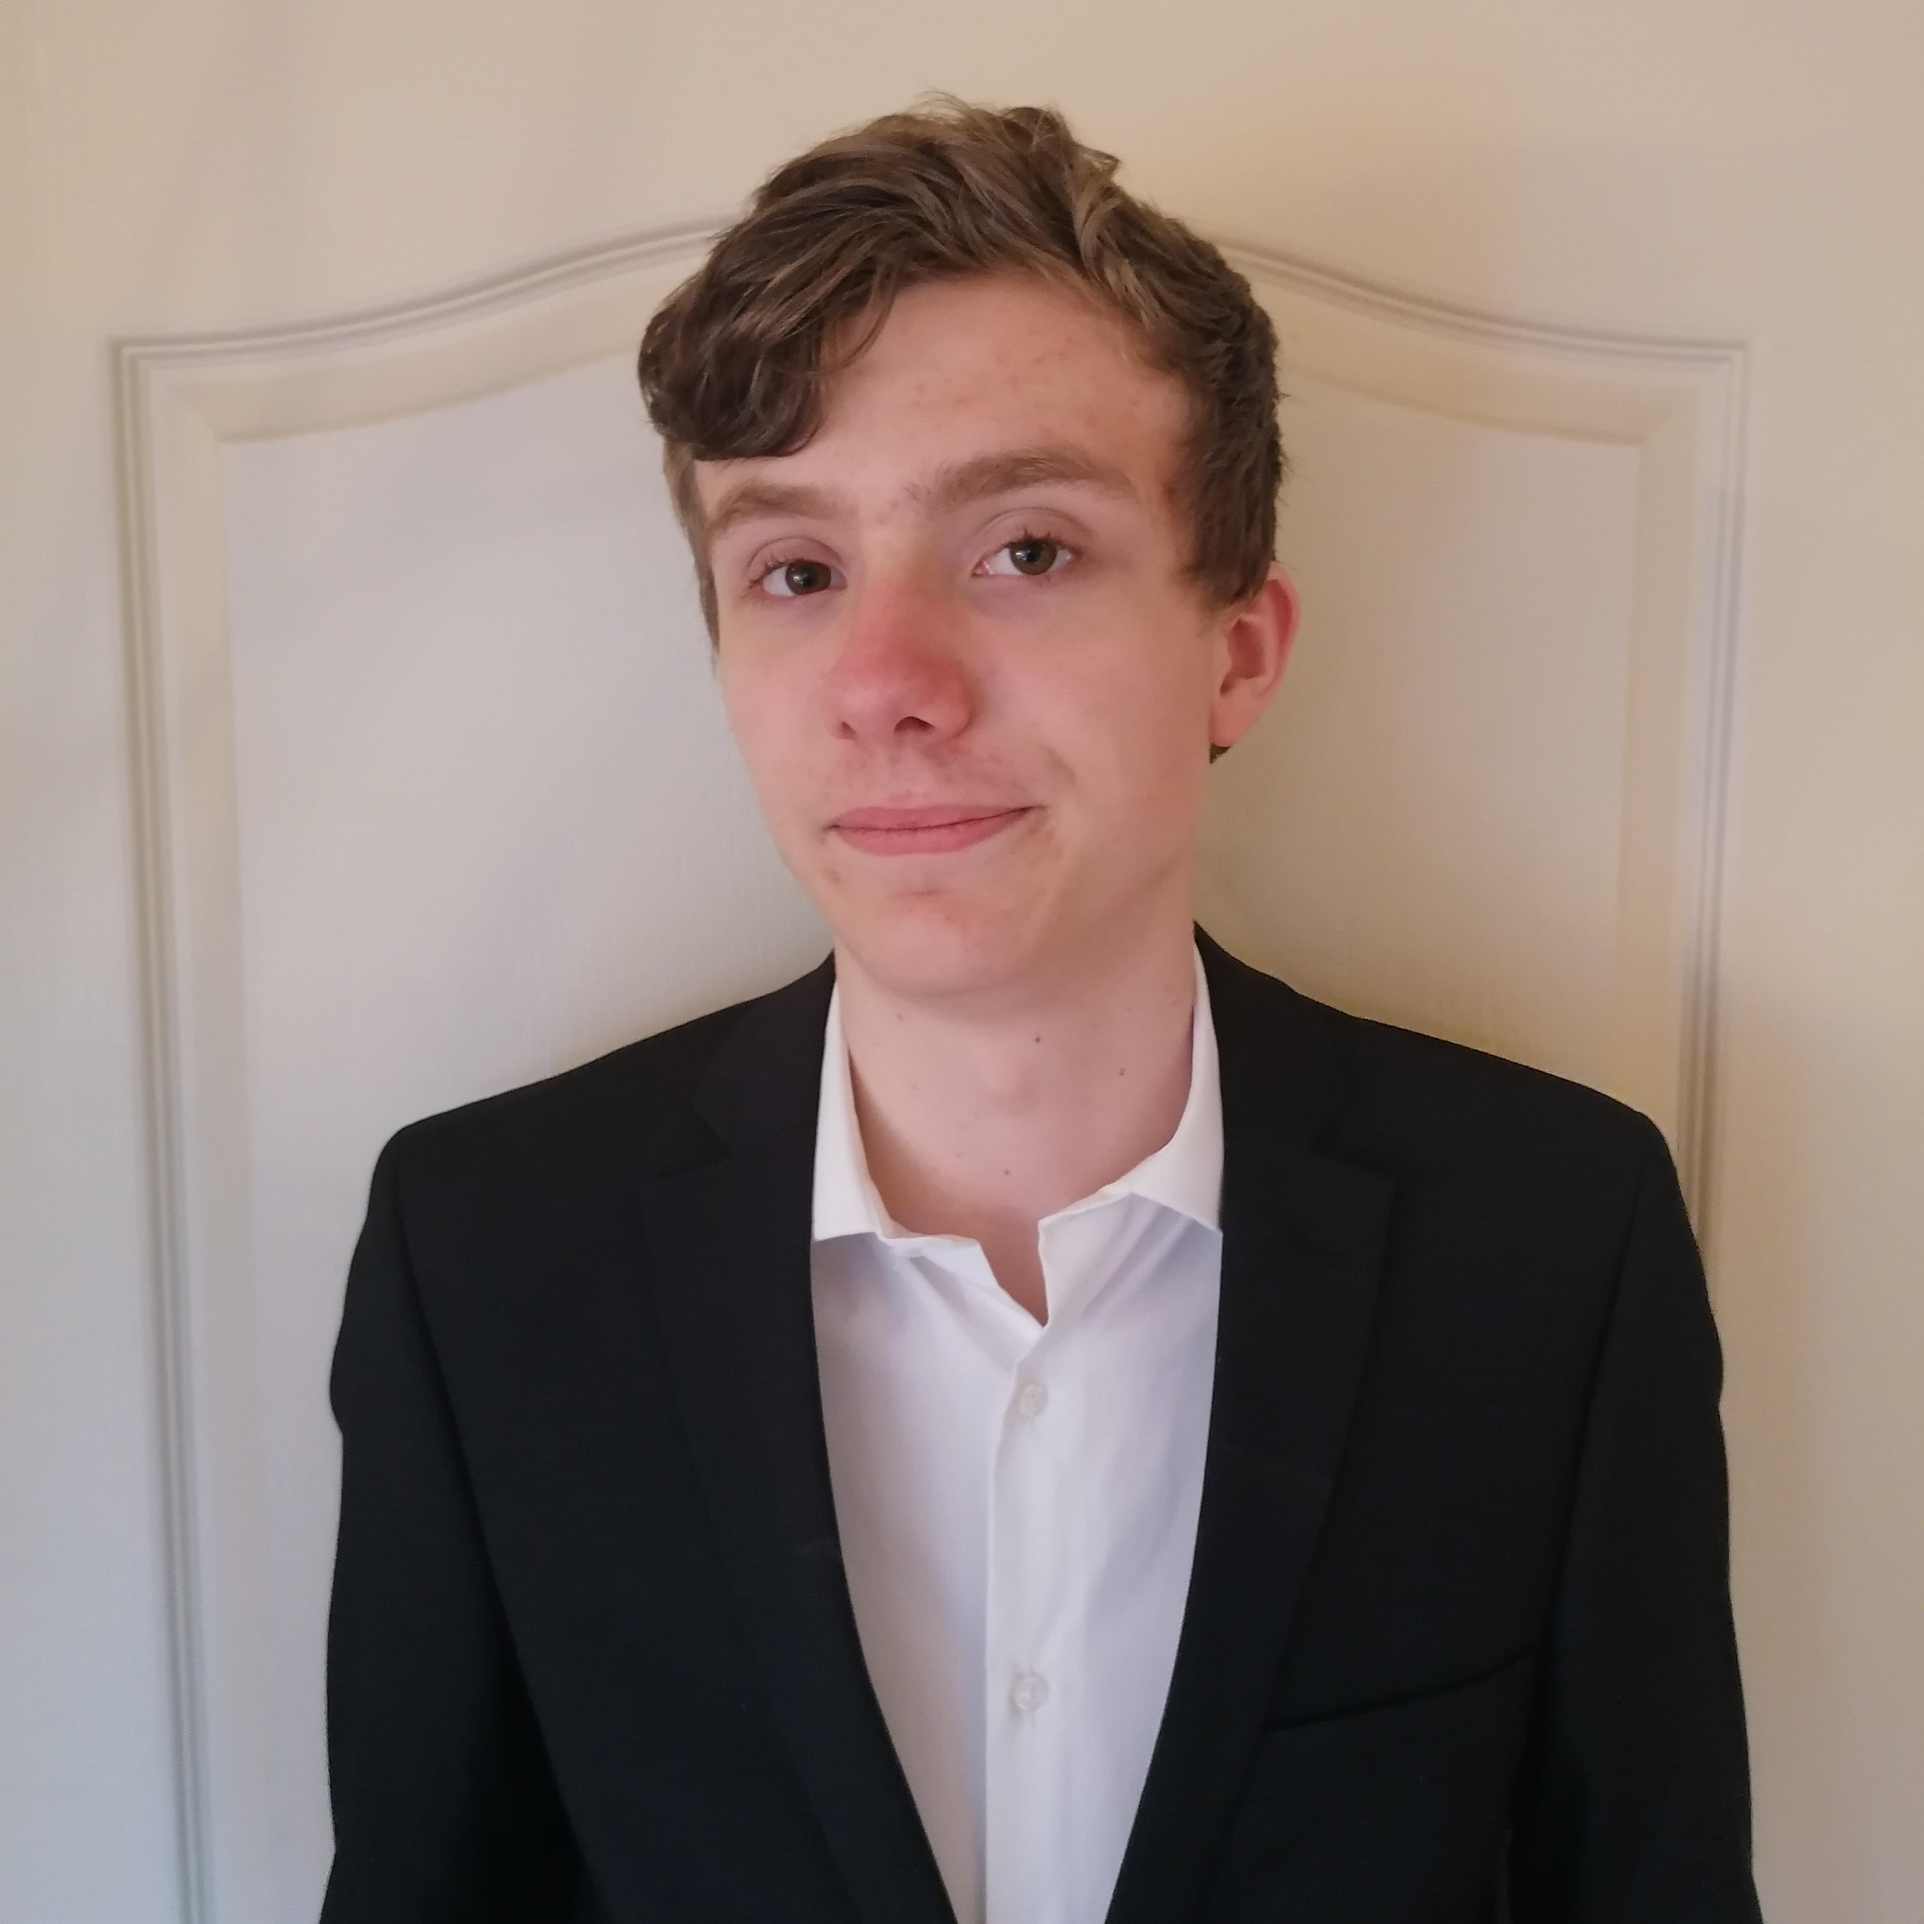
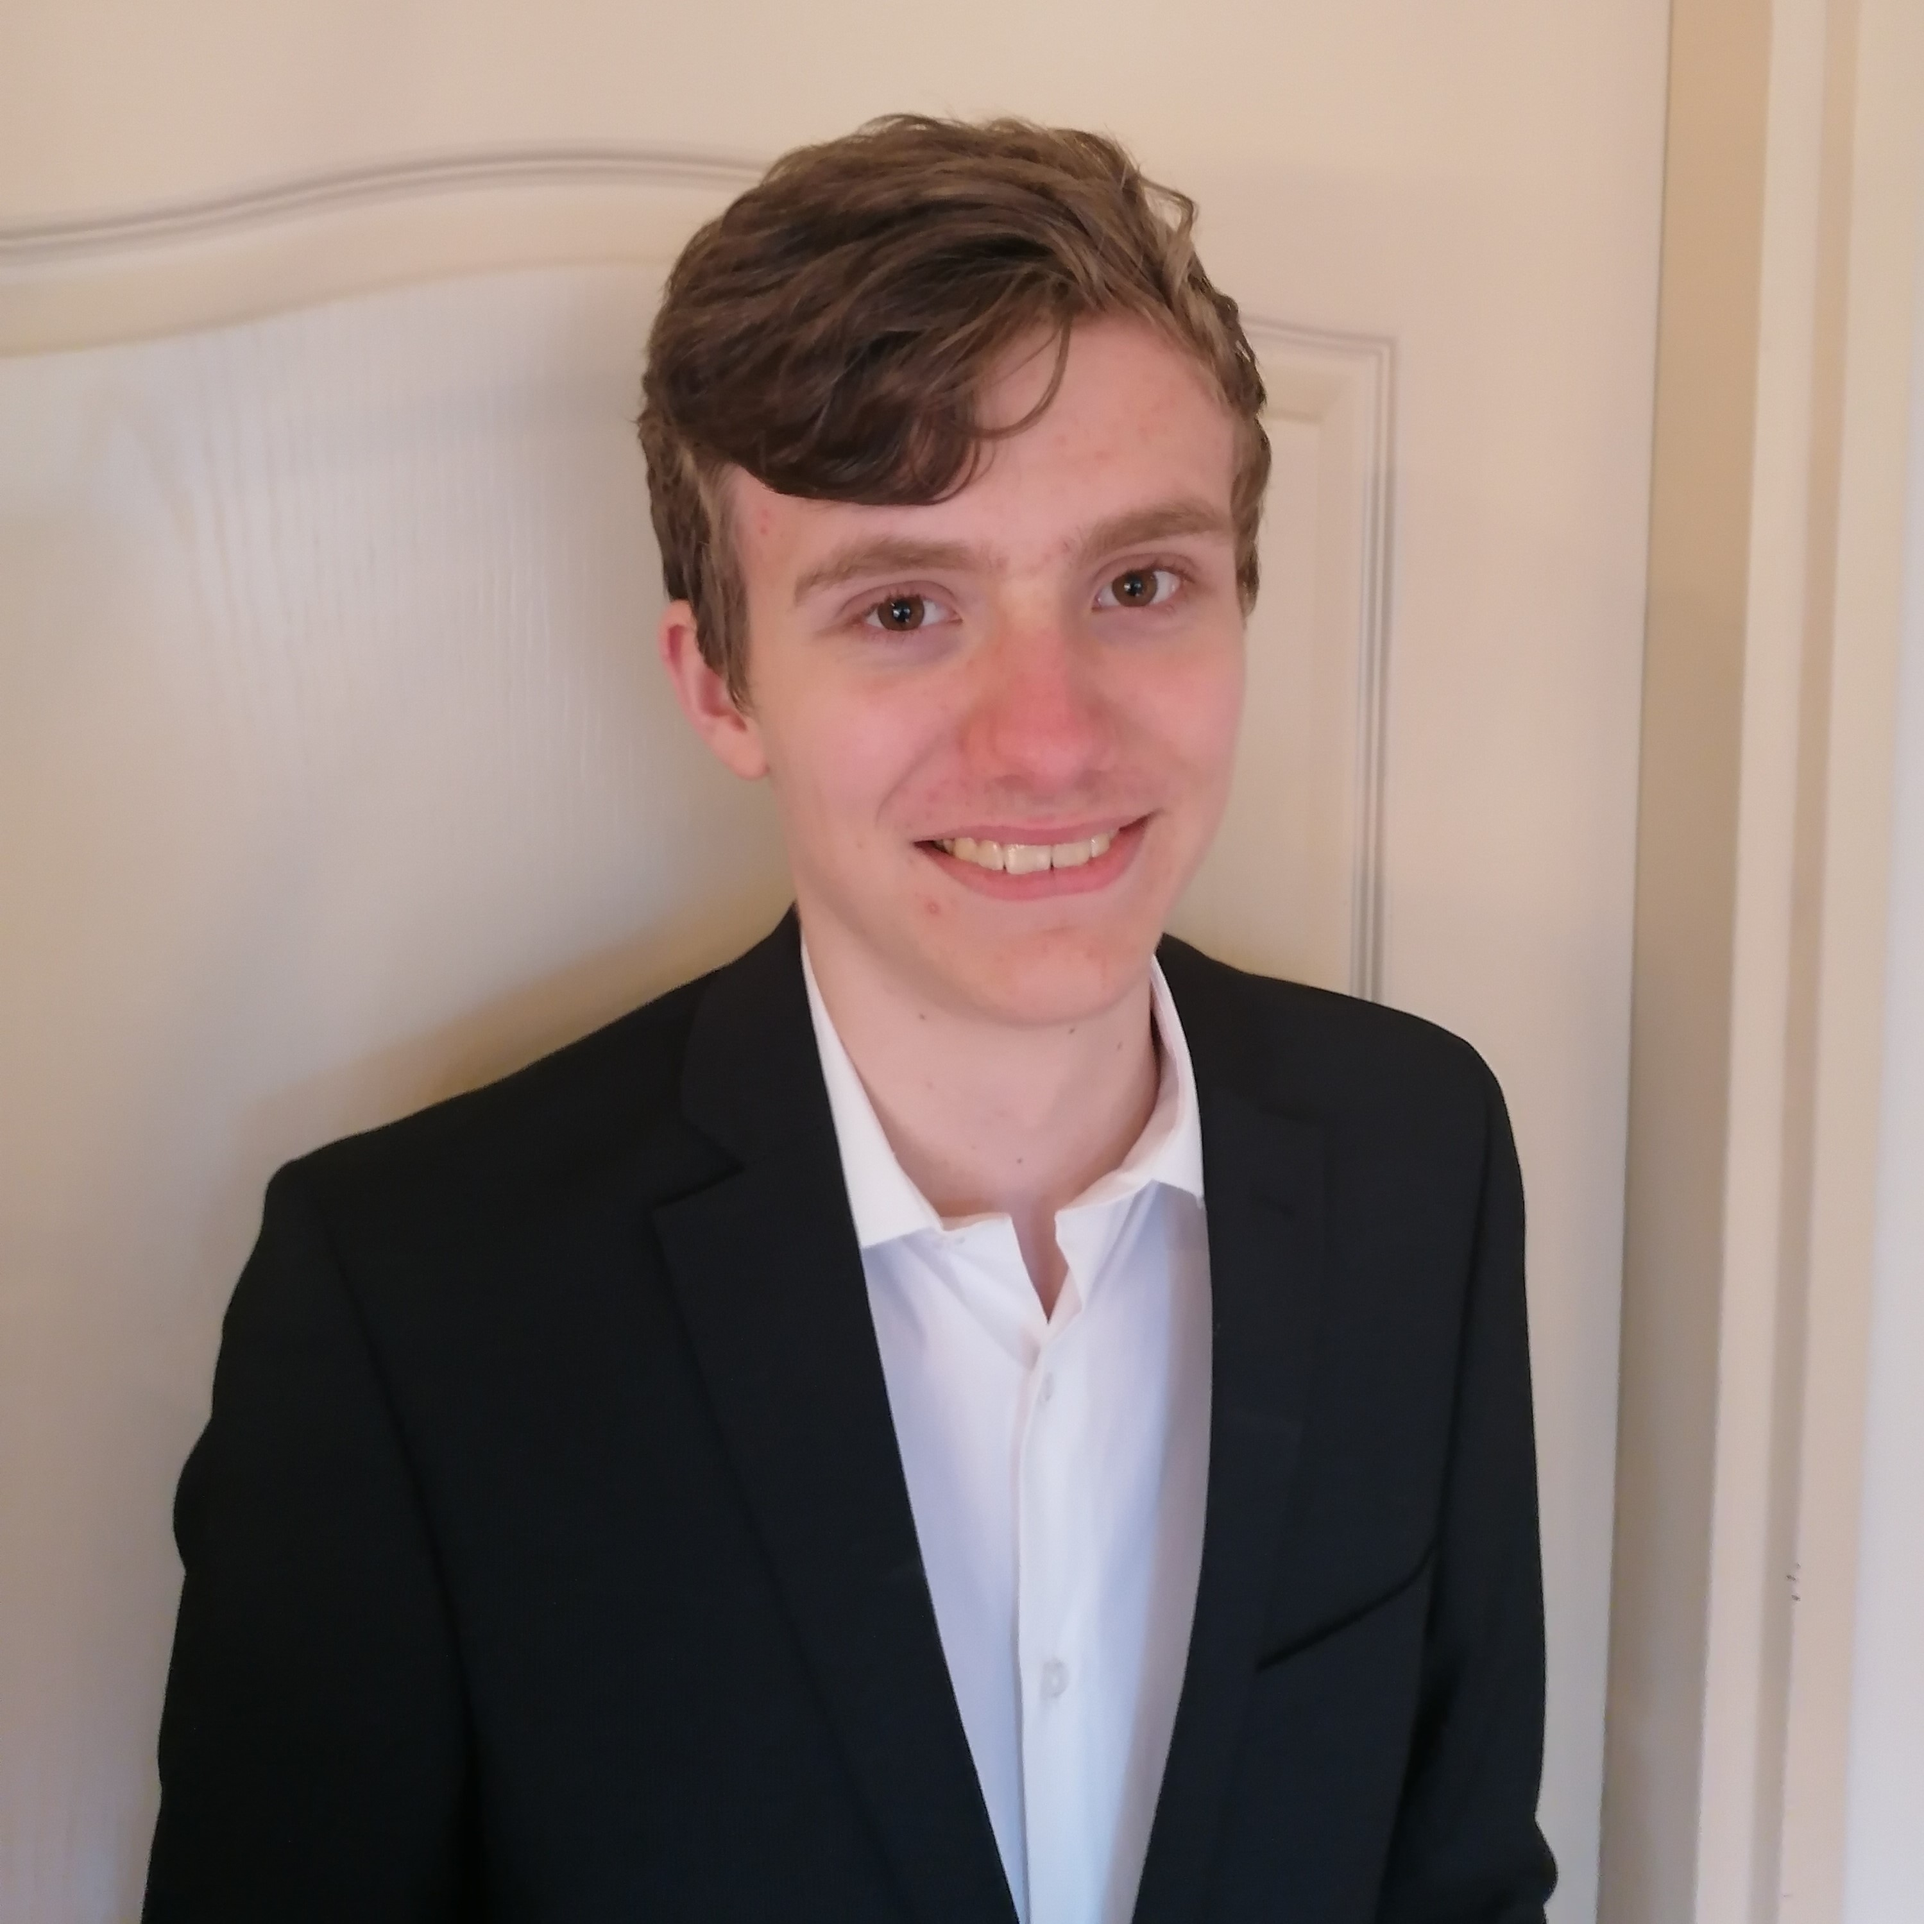
updates

diff --git a/index.html b/index.html
@@ -13,7 +13,7 @@
 </head>
 
 <body>
-    <nav class="navbar navbar-default navbar-fixed-top">
+    <nav class="navbar navbar-expand-xs navbar-fixed-top">
         <div class="container">
             <div class="navbar-header">
                 <button type="button" class="navbar-toggle" data-toggle="collapse" data-target="#myNavbar">
@@ -35,16 +35,33 @@
     </nav>
     <div class="container-fluid welcome">
         <div class="row">
-            <div class="col-md-1">
+            <div class="col-xs-1">
             </div>
-            <div class="col-md-10">
+            <div class="col-xs-10">
                 <div class="row welcomeblock">
-                    <div class="col-md-1">
+                    <div class="col-xs-12 col-md-5">
+                        <div class="row">
+                            <div class="col-xs-2">
+
+                            </div>
+                            <div class="col-xs-8">
+                                <img src="Img/profFoto2.jpg" class="img-circle proffoto my-auto mx-auto">
+                            </div>
+                            <div class="col-xs-2">
+
+                            </div>
+                        </div>
                     </div>
-                    <div class="col-md-6 col-sm-12">
+                    <div class="col-xs-12 col-md-7">
                         <h3 class="welcometext welcometext1">Nice to meet you,</h3>
                         <h3 class="welcometext">I am <span class="name">Storm</span></h3>
                         <h3 class="welcometext2">Software Engineer in training</h3>
+                    </div>
+                </div>
+                <div class="row welcomeTable">
+                    <div class="col-xs-2">
+                    </div>
+                    <div class="col-xs-12 col-md-7">
                         <table class="infoTable">
                             <tbody>
                                 <tr>
@@ -71,12 +88,12 @@
                             </tbody>
                         </table>
                     </div>
-                    <div class="col-md-5 col-sm-12">
-                        <img src="Img/profFoto2.jpg" class="img-circle proffoto my-auto mx-auto">
+                    <div class="col-xs-3">
                     </div>
                 </div>
+
             </div>
-            <div class="col-md-1">
+            <div class="col-xs-1">
 
             </div>
         </div>

diff --git a/css/home.css b/css/home.css
@@ -65,25 +65,25 @@ body {
 .welcomeblock {
     margin-top: 18vh;
     background-color: var(--Back2);
-    height: 75vh;
+}
+
+.welcomeTable {
+    background-color: var(--Back2);
 }
 
 .proffoto {
-    max-width: 100%;
-    height: 50vh;
+    width: 100%;
     border: 0.5vh solid var(--High2);
-    margin-top: 4%;
-    margin-right: 15%;
-    float: right;
+    margin-top: 15%;
 }
 
 .infoTable {
     font-family: Helvetica, sans-serif;
-    width: 80%;
+    width: 100%;
     color: white;
     margin-top: 5vh;
     font-size: 3vh;
-    margin-left: 5vh;
+    margin-bottom: 8vh;
 }
 
 .infoTable td {
@@ -118,7 +118,6 @@ body {
 }
 
 .name {
-    padding-left: 3%;
     color: var(--High1) !important;
     font-size: 15vh;
 }
